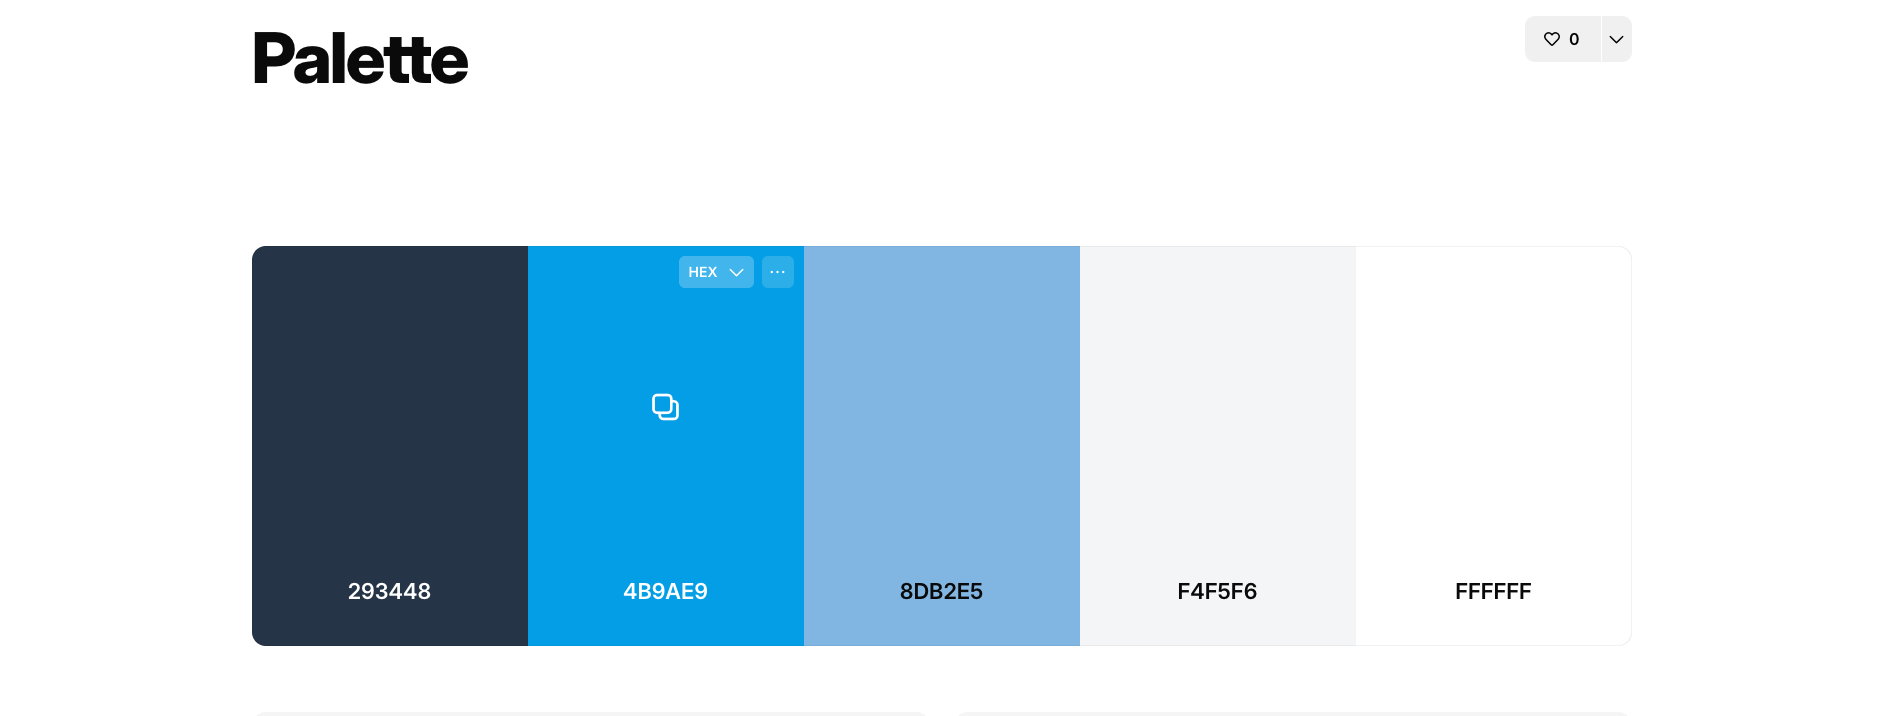
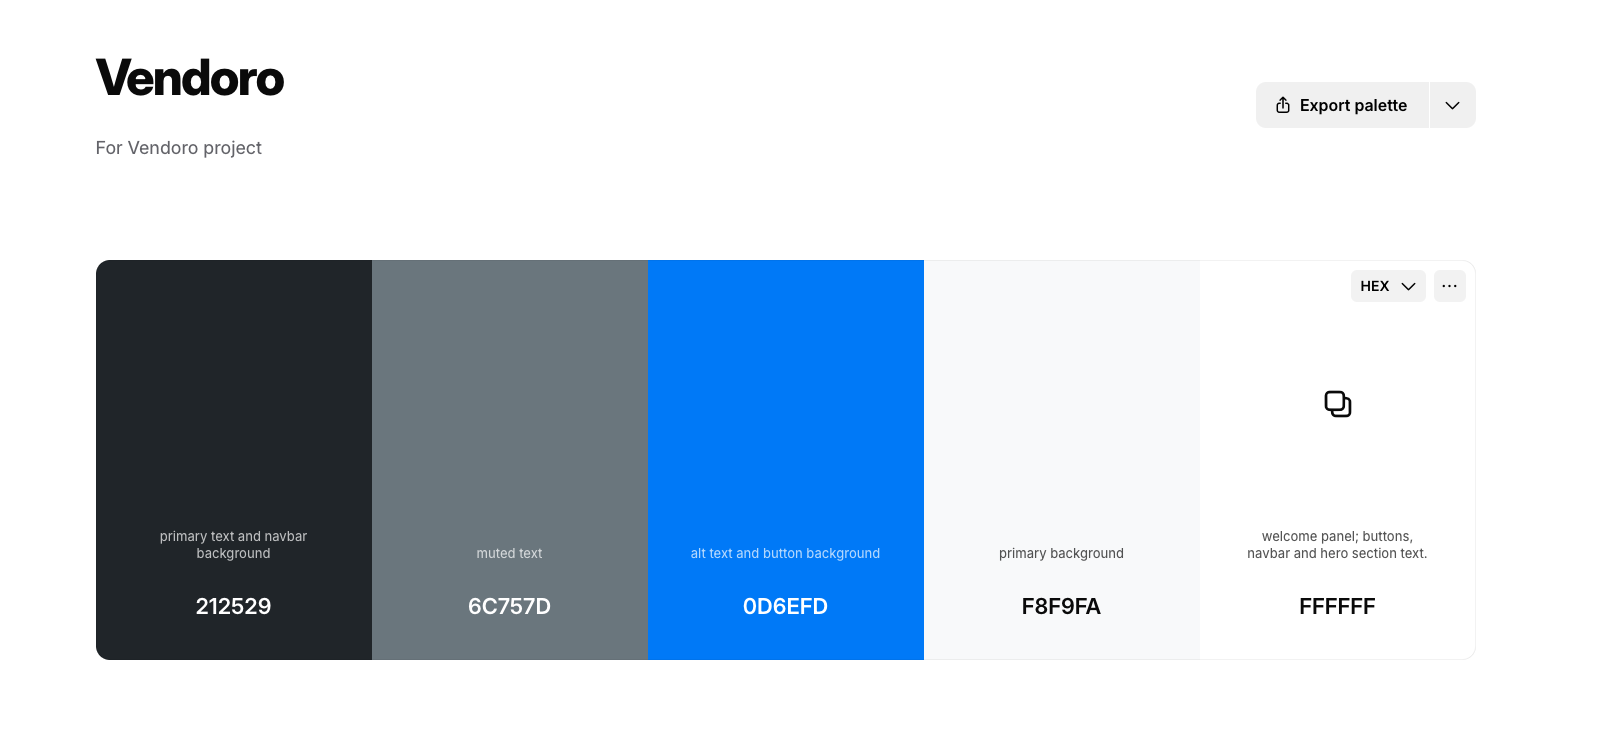
Update color scheme and palette image

diff --git a/README.md b/README.md
@@ -110,21 +110,25 @@ When you add a color to the palette, the URL is dynamically updated, making it e
 
 ⚠ --- END --- ⚠
 
-I used [coolors.co](https://coolors.co/293448-4b9ae9-8db2e5-f4f5f6-ffffff) to generate my color palette.
+I used [coolors.co](https://coolors.co/212529-6c757d-0d6efd-f8f9fa-ffffff) to generate my color palette.
 
-- `#293448` primary text.
-- `#4B9AE9` primary brand.
-- `#8DB2E5` secondary brand.
-- `#F4F5F6` primary card background.
-- `#FFFFFF` alt background and secondary text.
+- `#212529` primary text.
+- `#6c757d` muted text.
+- `#FFFFFF` buttons, navbar and hero section text.
+- `#0d6efd` alt text and button background.
+- `#f8f9fa` primary background.
+- `#212529` navbar background.
+- `#FFFFFF` welcome panel.
 
 ![screenshot](documentation/palette.png)
 
 ### Typography
 
-- [Montserrat](https://fonts.google.com/specimen/Montserrat) was used for the primary headers and titles.
-- [Lato](https://fonts.google.com/specimen/Lato) was used for all other secondary text.
-- [Font Awesome](https://fontawesome.com) icons were used throughout the site, such as the social media icons in the footer.
+Using Bootstrap 5.3.3 default system stack.
+
+- Body + headings + buttons + forms all inherit:
+  - system-ui, -apple-system, "Segoe UI", Roboto, "Helvetica Neue", Arial, "Noto Sans", "Liberation Sans", sans-serif, ...emoji fallbacks
+
 
 ## Wireframes
 
